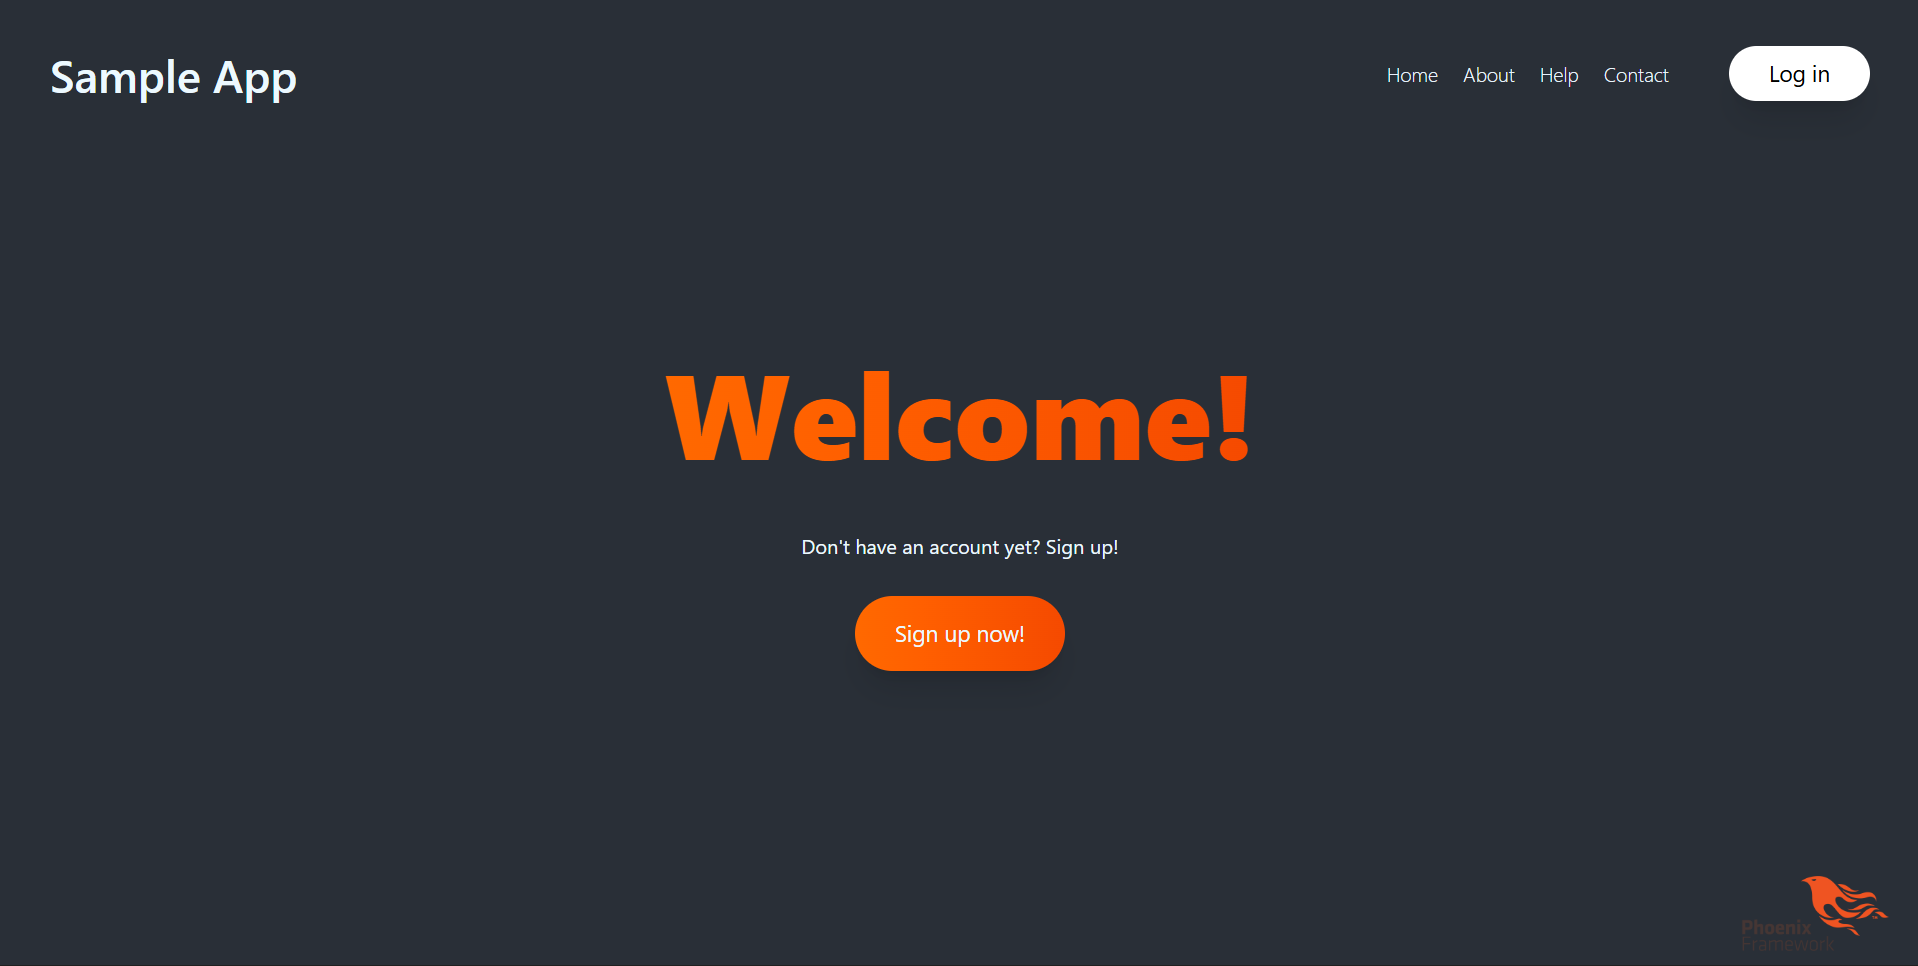
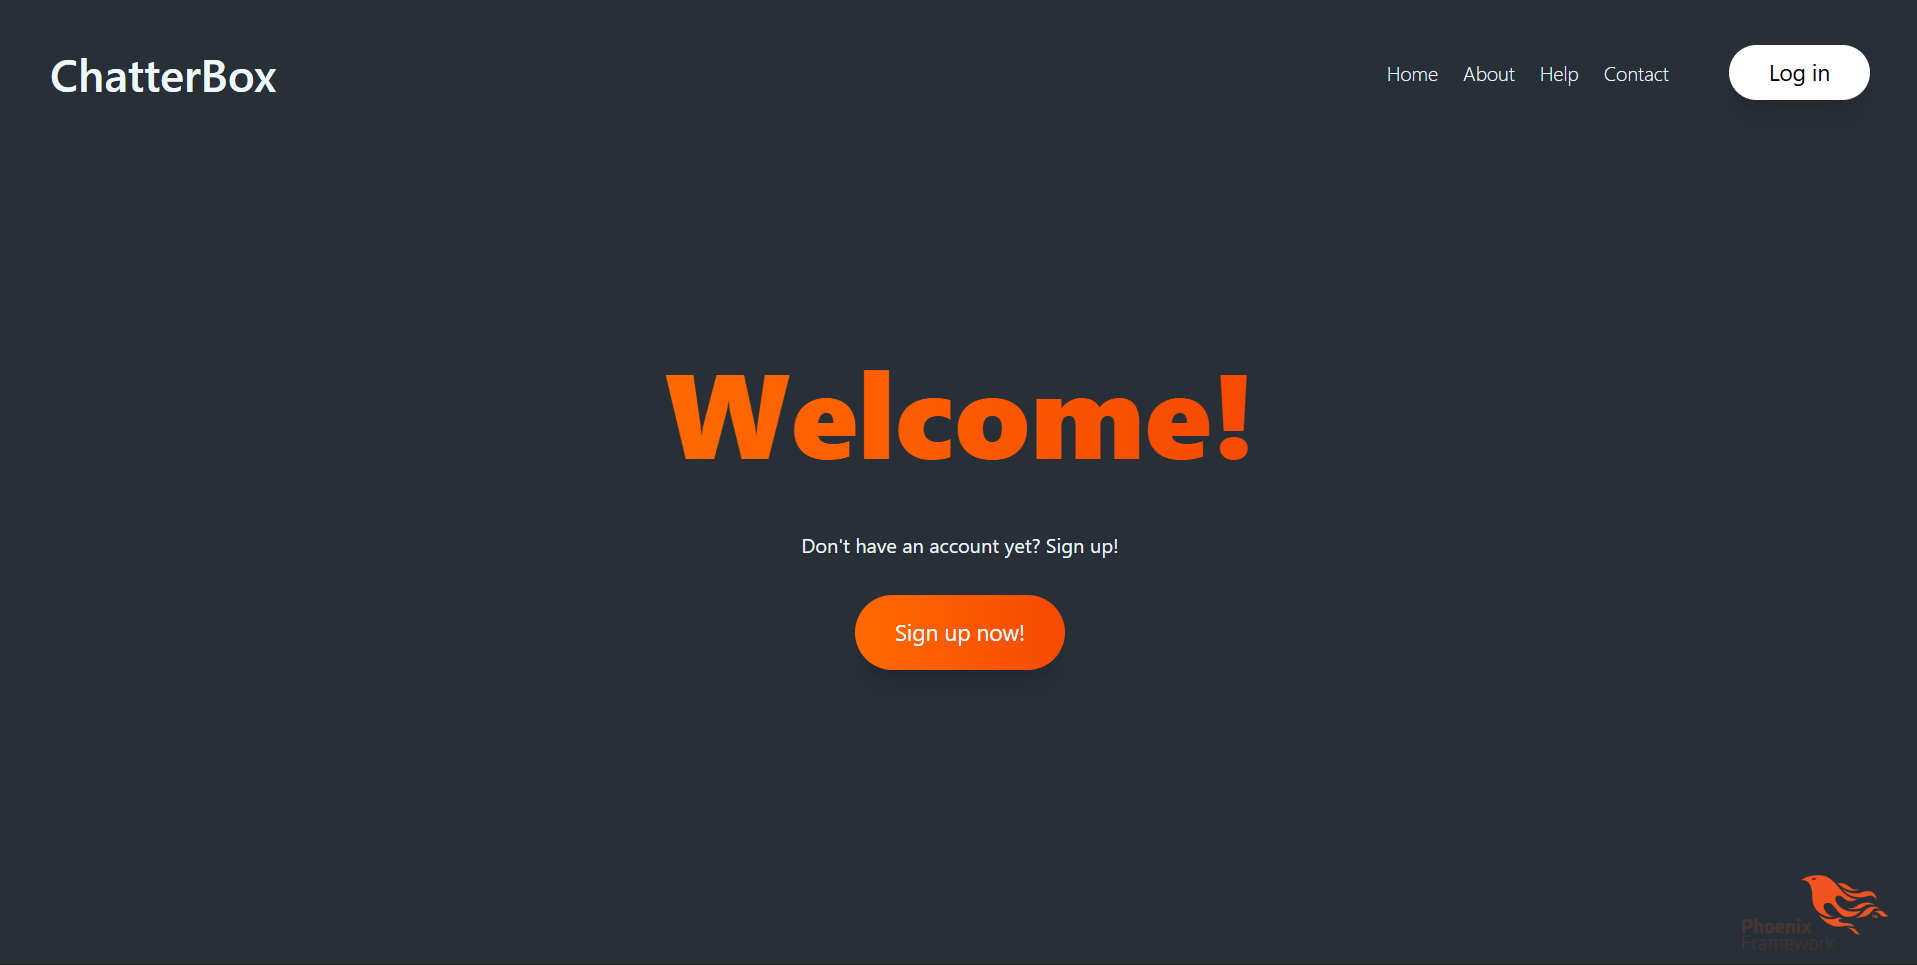
minor renaming and changing images

diff --git a/src/App.jsx b/src/App.jsx
@@ -324,9 +324,7 @@ function App() {
           <div className="card fadeIn">
             <div className="cardContent">
               <div>
-                <p className="smallHeader centerText cardHeader">
-                  TWITTER CLONE
-                </p>
+                <p className="smallHeader centerText cardHeader">CHATTERBOX</p>
                 <p>
                   In this project, I built a clone of Twitter using Elixir,
                   Phoenix, and Tailwind. The application has all of Twitter's
